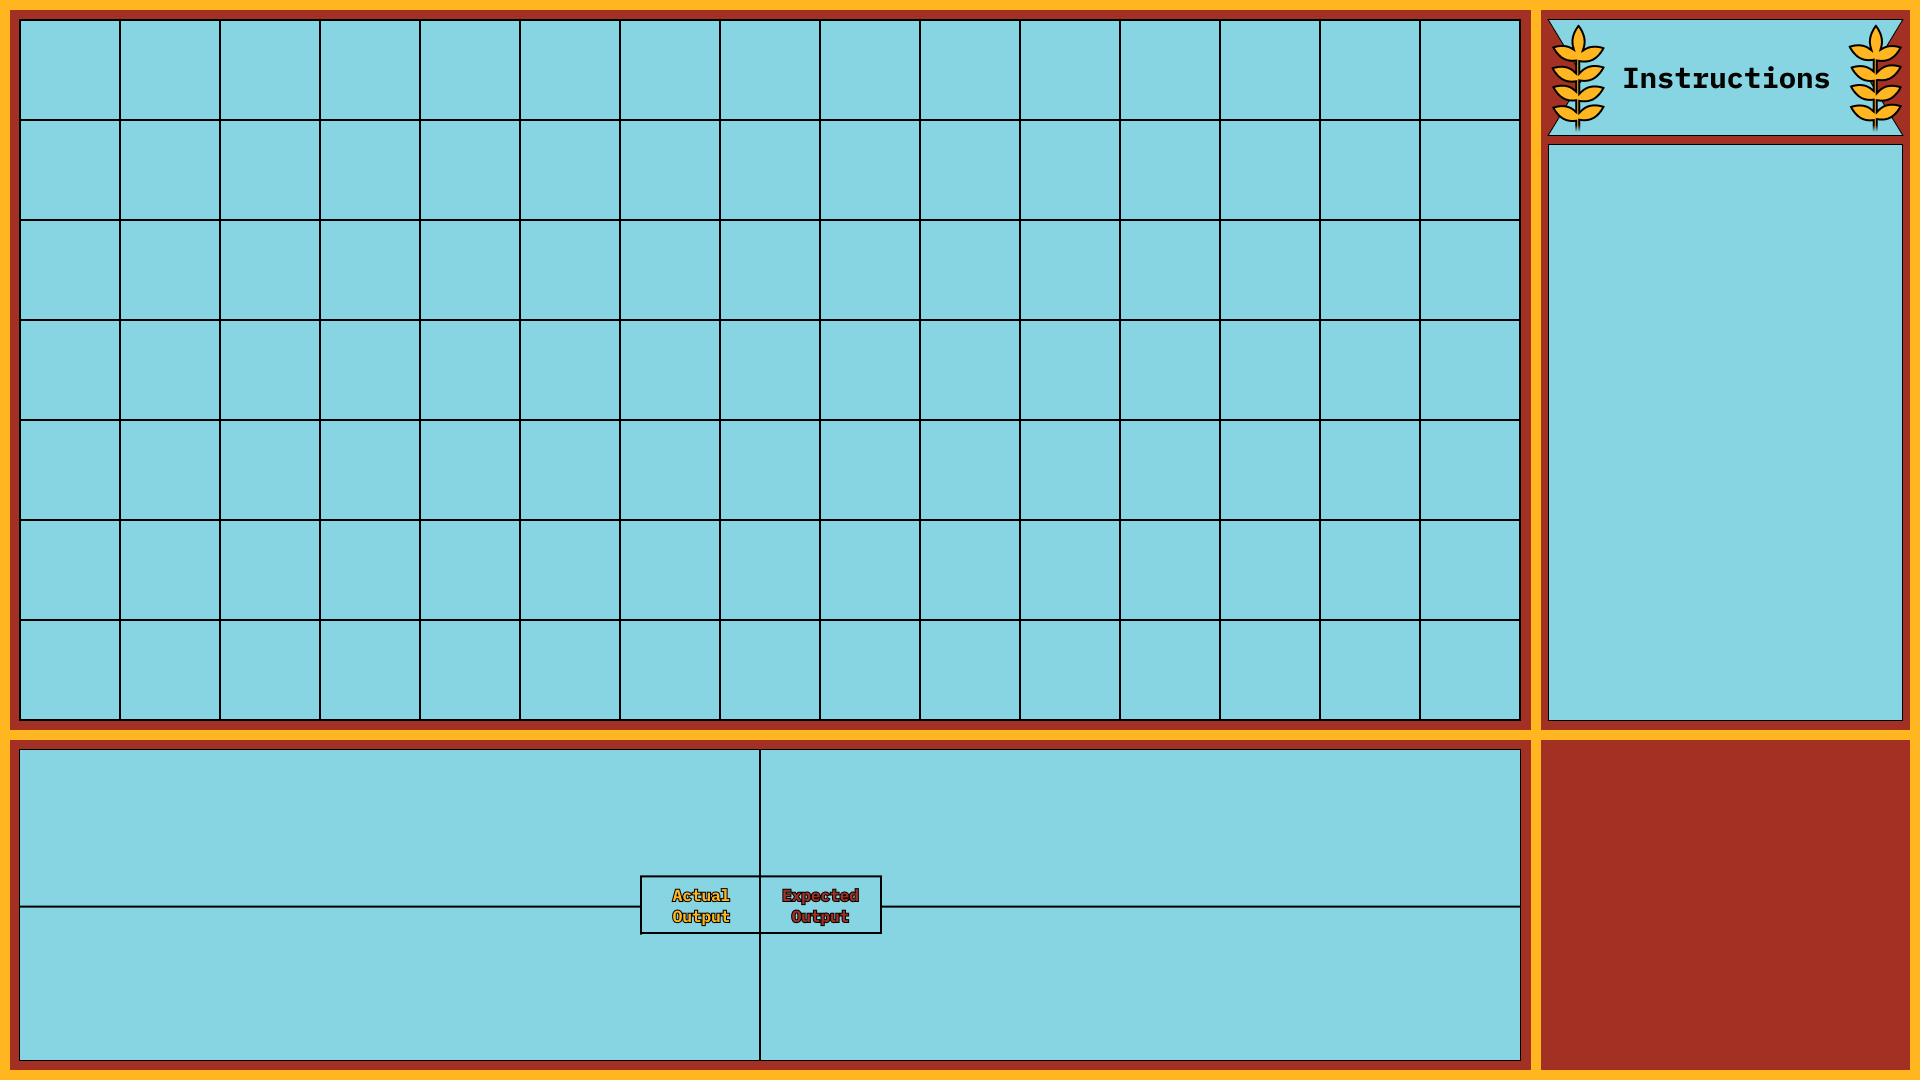
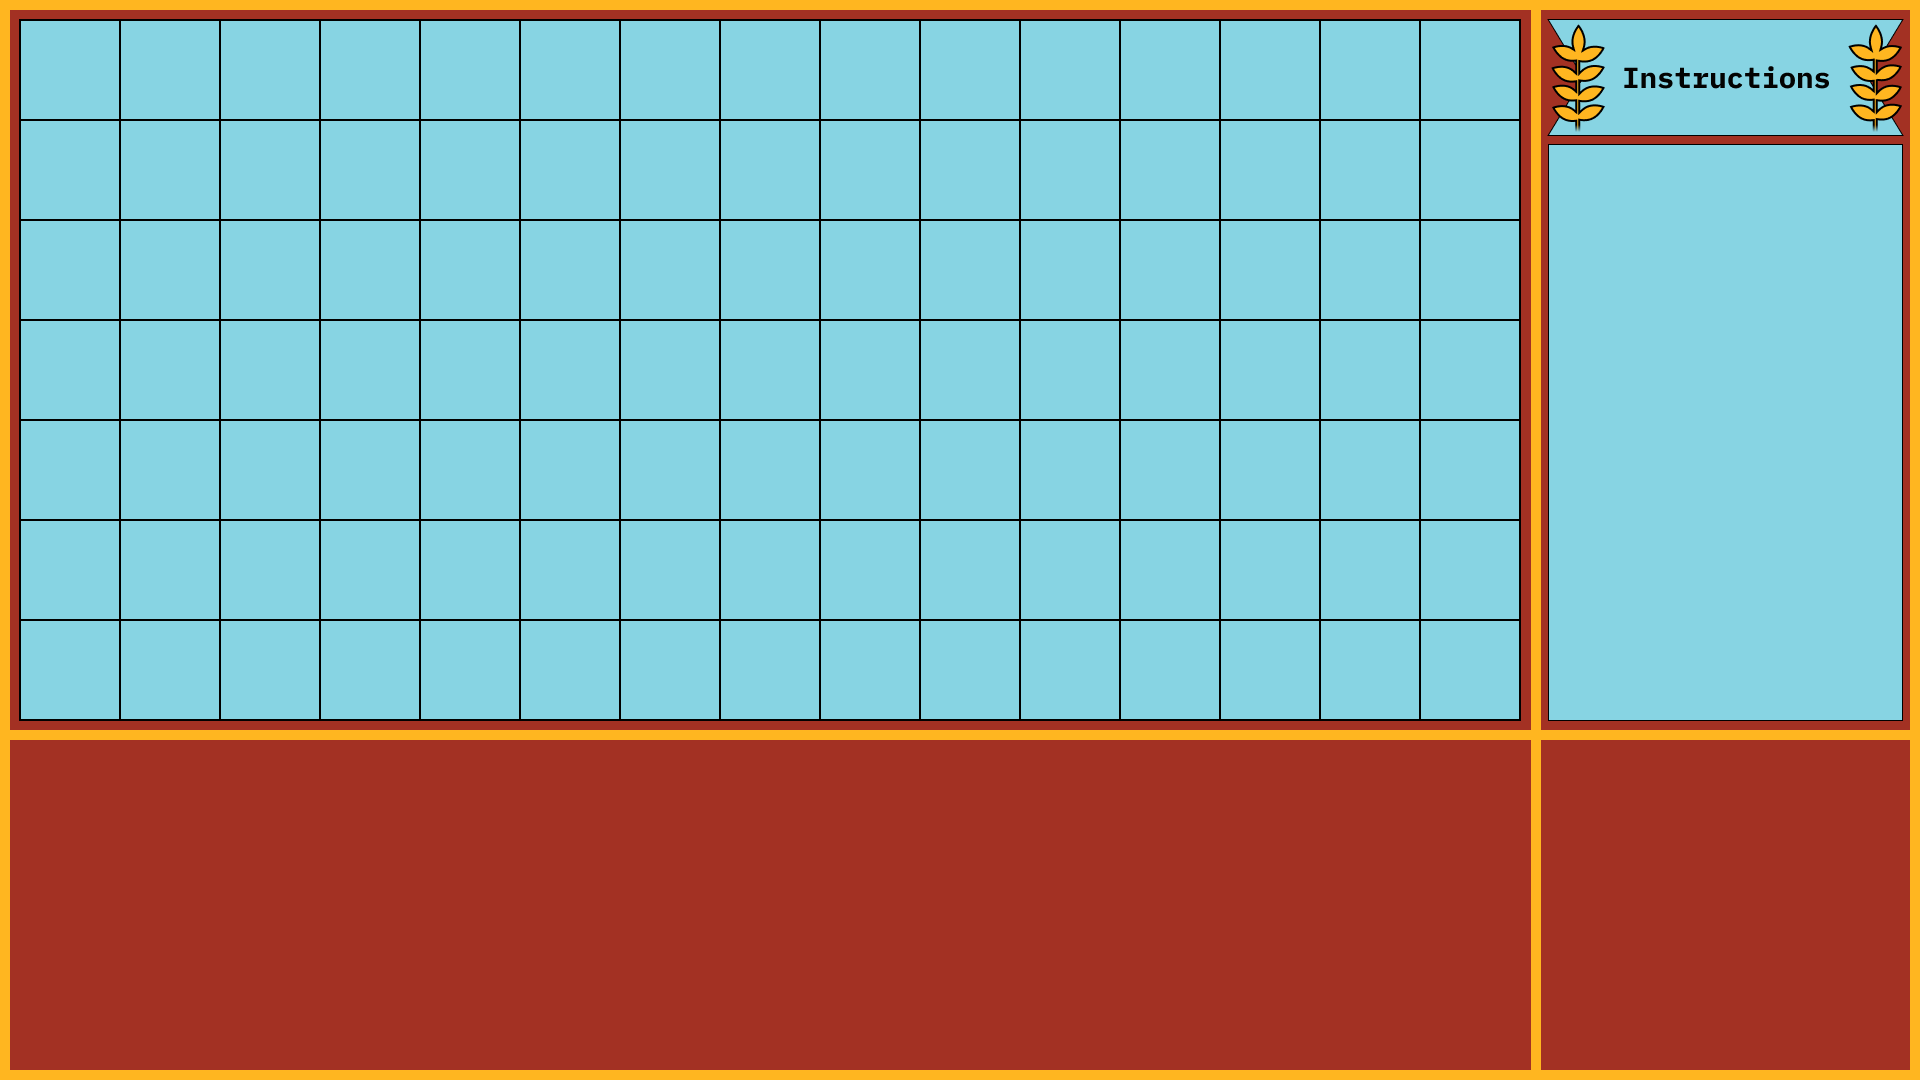
Add IOGraph

Changed region(s): [[0.0, 0.6722, 0.8125, 1.0]]

diff --git a/Classes/Game/IOGraph.py b/Classes/Game/IOGraph.py
@@ -1,0 +1,102 @@
+import pygame
+import math
+
+IMAGE = pygame.image.load("Assets/Game/io_graph.png").convert_alpha(pygame.display.get_surface())
+FONT = pygame.font.Font("Assets/Fonts/IBMPlexMono-Medium.ttf", 12)
+
+RED_COLOR = (163, 49, 35)
+GREEN_COLOR = (0, 149, 61)
+
+class IOGraph(pygame.sprite.Sprite):
+    def __init__(self, input1: list[int], input2: list[int], expected1: list[int], expected2: list[int]):
+        super().__init__()
+
+        self.surf = IMAGE.copy()
+        self.rect = self.surf.get_rect()
+        self.actual1 = []
+        self.actual2 = []
+        
+        self.LENGTH = len(input1)
+        self.SPACING = math.ceil(748/self.LENGTH)
+        self.MAX_LINE_HEIGHT = 125 - FONT.size("a")[1] - 3
+        
+        self.max_values = []
+
+        for i, ls in enumerate([input1, input2, expected1, expected2]):
+            max_value = max(ls)
+            if i > 1: self.max_values.append(max_value)
+            if max_value == 0: max_value = 1
+            value_to_height = lambda x: (155 if not bool(i%2) else 278) - math.floor(self.MAX_LINE_HEIGHT * (x/max_value))
+            
+            prev_y = value_to_height(ls[0])+2
+
+            for num, item in enumerate(ls):
+                height = value_to_height(item)
+                start_x = num * self.SPACING + 2 + (750 * int(i>1))
+                pygame.draw.line(
+                    self.surf,
+                    RED_COLOR, 
+                    (start_x, height),
+                    ((num+1) * self.SPACING + (int(num != self.LENGTH-1)*2-1) + (750 * int(i>1)), height),
+                    4
+                )
+                if num != 0:
+                    pygame.draw.line(
+                        self.surf,
+                        RED_COLOR,
+                        (start_x, prev_y),
+                        (start_x, height-1),
+                        4
+                    )
+                    prev_y = value_to_height(item)+2
+
+                text_render = FONT.render(str(item), True, RED_COLOR)
+                text_rect = text_render.get_rect()
+                text_rect.midbottom = (start_x + round(self.SPACING * 0.5), height)
+                self.surf.blit(text_render, text_rect)
+
+        self.CLEAN_SURF = self.surf.copy()
+
+    def add_actual(self, actual1_value: int, actual2_value: int):
+        self.actual1.append(actual1_value)
+        self.actual2.append(actual2_value)
+
+        for i, ls in enumerate([self.actual1, self.actual2]):
+            max_value = self.max_values[i]
+            if max_value == 0: max_value = 1
+            value_to_height = lambda x: (155 if i==0 else 278) - math.floor(self.MAX_LINE_HEIGHT * (x/max_value))
+            
+            prev_y = value_to_height(ls[-2] if len(ls)>1 else ls[-1])
+
+            item = ls[-1]
+            num = len(ls)-1
+
+            height = value_to_height(item)
+            start_x = num * self.SPACING + 2 + 750
+            pygame.draw.line(
+                self.surf,
+                GREEN_COLOR, 
+                (start_x, height),
+                ((num+1) * self.SPACING + (int(num != self.LENGTH-1)*2-1) + 750, height),
+                2
+            )
+            if num != 0:
+                pygame.draw.line(
+                    self.surf,
+                    GREEN_COLOR,
+                    (start_x, prev_y + int(prev_y != height)),
+                    (start_x, height),
+                    2
+                )
+                prev_y = value_to_height(item)
+
+            text_render = FONT.render(str(item), True, GREEN_COLOR)
+            text_rect = text_render.get_rect()
+            text_rect.midbottom = (start_x + round(self.SPACING * 0.5), height)
+            self.surf.blit(text_render, text_rect)
+    
+
+    def reset(self):
+        self.actual1 = []
+        self.actual2 = []
+        self.surf = self.CLEAN_SURF.copy()

diff --git a/Scenes/Game.py b/Scenes/Game.py
@@ -5,6 +5,7 @@ from Classes.ImageHelper import ImageHelper
 from Classes.TextRenderer import TextRenderer
 from Classes.Game.Grid import Grid
 from Classes.ImageButton import ImageButton
+from Classes.Game.IOGraph import IOGraph
 
 #set up some constants
 INSTRUCTIONS_POSITION = (1549, 145)
@@ -40,6 +41,17 @@ class Game():
         )
         self.sprite_group.add(instruction_text)
 
+        t = puzzle.example_testcase
+        self.io_graph = IOGraph(
+            t.inputs,
+            t.inputs2,
+            t.expected_outputs,
+            t.expected_outputs2
+        )
+        self.io_graph.rect = 20, 750
+        self.sprite_group.add(self.io_graph)
+
+
         #initialize a grid instance
         self.grid = Grid(puzzle.example_testcase.inputs, puzzle.example_testcase.inputs2)
 
@@ -50,6 +62,10 @@ class Game():
         #set up the step button, to advance the sim by one tick
         def step_button_onclick():
             self.grid.do_sim_tick()
+            self.io_graph.add_actual(
+                self.grid.get(14, 2).output_value,
+                self.grid.get(14, 4).output_value
+            )
         step_button = ImageButton(self.images.step_button, (1561, 856), step_button_onclick, 1.05)
         self.sprite_group.add(step_button)
 
@@ -76,6 +92,7 @@ class Game():
             self.advancing = False
             self.advcounter = 0
             self.grid.reset_sim()
+            self.io_graph.reset()
         reset_button = ImageButton(self.images.reset_button, (1802, 856), reset_button_onclick, 1.05)
         self.sprite_group.add(reset_button)
 
@@ -140,6 +157,10 @@ class Game():
                     self.advancing = False
                     self.advcounter = 0
                 self.grid.do_sim_tick()
+                self.io_graph.add_actual(
+                    self.grid.get(14, 2).output_value,
+                    self.grid.get(14, 4).output_value
+                )
             self.advcounter = (self.advcounter + 1) % 15
 
 
